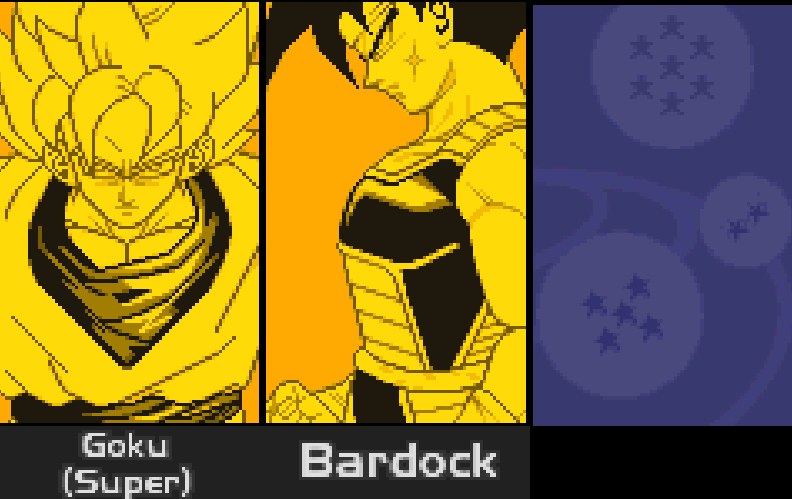
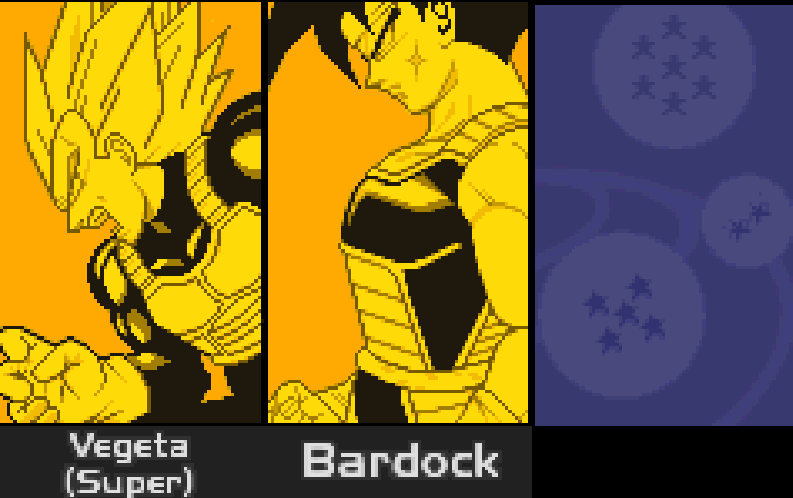
milieu des solutions : milieu de la page sur le combat z

Changed region(s): [[0.0, 0.0, 0.697, 1.0], [0.4848, 0.1807, 0.5152, 0.2108]]

diff --git a/soluce/solution_z.html b/soluce/solution_z.html
@@ -504,28 +504,34 @@
 
     <p>Pour la stratégie a adoptée, passons en revue les qualités des personnages et voyons ce que l'on peut faire avec :</p>
     <p>Metal Cooler sera ici la seule force de frappe majeure de l'équipe, du haut de ses 5 DP il possède des attaques et de compétences très intéressantes:
-      <br>Il a son Kamehameha qui couvre la longue portée et fait de très bons dégâts, son Kienzan est parfait, en plus d'aller plus loin et  plus vite, il fait bien plus mal que celui de Krilin 
-      et enfin son Makankuuhouidan emprunté à Piccolo est mieux que ce dernier, car il couvre la moyenne portée tout en faisant de meilleurs dégâts.
-      Pour sa compétence, c'est là que le personnage est redoutable car à 30% de ses Pv, si on appuie sur L, il déclenche une autodestruction qui fait environ les dégâts d'une Attaque Ultime, ce qui peut renverser le combat.
+      <br>Il a son Blaster de la mort qui couvre la moyenne portée et fait de bons dégâts tout en immobilisant l'ennemi, son Smash centrale est parfait pour frapper le centre et sur la longue distance,
+      tout en envoyant l'ennemi au loin et enfin son Nid de glace	est excellent,  il couvre la longue portée tout en faisant de meilleurs dégâts et fait réculer l'ennemi, 
+      si on maintiens le bouton plus longtemps. Pour sa compétence, c'est là que le personnage est redoutable car s'il meurt mais qu'il a 150% d'énergie alors il revient à la vie, 
+      ce qui peut renverser le combat.
     </p>
-    <p>Zarbon / Dodoria est un personnage support intéressant à 2 DP , il a certes des dégâts qui ne font pas réver, mais sa force réside dans le fait qu'en le sélectionnant à gauche, 
-      on obtient Zarbon qui déchaîne une vague de kikohas qui gène l'adversaire et en sélectionnant à droite, 
-      Dodoria attaque avec des boules d'énergies qui font plus mal.
+    <p>Cell Jr est un personnage support fort intéressant seulement 2 DP , il a certes des dégâts qui ne font pas réver, mais sa force réside dans le fait qu'il gênera l'adversaire,
+      en attaquant par derrière et l'empêchant de bouger.    
     </p>
-    <p>Zarbon / Dodoria est un personnage support intéressant à 2 DP , il a certes des dégâts qui ne font pas réver, mais sa force réside dans le fait qu'en le sélectionnant à gauche, 
-      on obtient Zarbon qui déchaîne une vague de kikohas qui gène l'adversaire et en sélectionnant à droite, 
-      Dodoria attaque avec des boules d'énergies qui font plus mal.
+    <p>Bardock est un personnage support excellent pour uniquement 2 DP , son but est de rechargé le Ki à 200 instantanément.
     </p>
     
       
-    <p>Pour ici, la stratégie sera concentrée autour de C-18 et Dr Gero, en début de partie, jouez passif-agressif avec C-18, attaquez avec spéciaux et vos coups au corps-à-corps,
-      mais surtout quand votre capacité peut être activée, activez là et passez en mode agressif enchaînez les spéciaux et abattez un maximum d'adversaire . Pour ce qui est de Gero, vous pouvez enchaîner avec ou bien jouer avec lui dés le début, il pourra jauger les dégâts,
-      mais faites attention sa capacité à encaisser n'est pas la plus perfomante donc restez à distance. Si vous voyez que l'adversaire est trop fort ou que c'est la fin du combat pour Gero ou l'adversaire, activez son Attaque Ultime et Gero retrouvera l'entièreté de sa vie,
-      autrement le garder sera utile pour faire une attaque en duo avec Cell.
-      Pour Cell, vous pouvez faire comme avec Gotenks ou d'autres personnages qui n'ont pas de soucis particulier: vous jouez normalement vous tapez et détruisez les autres,
-      à la différence que lorsque votre vie est à 30% ou moins activez d'abord votre Attaque Ultime, ce qui en plus de faire super mal à l'adversaire, 
-      vous régénère une bonne partie de votre vie. Après s'il reste encore un adversaire, attendez qu'il approche et acitvez la compétence et vous lui ferez aussi mal qu'avec une Attaque Ultime, ce qui peut le tuer en un seul coup.
+    <p>Pour ici, la stratégie sera concentrée autour Metal Cooler uniquement mais aussi de l'utilisation des supports voici une stratégie pour chaque version de l'équipe:</p>
+      <li>Version avec Cell Jr :</li>
+      <p>Tout au long du combat, le but sera de jouer agressif avec Metal Cooler en gardant la pression constante grâce à ses spéciaux.
+        Mais pour vaincre l'ennemi au plus vite, le but sera de faire appel à Cell Jr qui bloquera l'adversaire, puis d'être au dessus de l'ennemi et de lui balancer le Nid de glace, 
+        qui en plus d'éloigner l'adversaire de notre position, lui fera extrêmement mal et vise tous les côtés. Répétez ceci et gagnez le combat facilement.
+        Autrement vous pouvez simplement foncer sur l'adversaire, le frapper et le détruire avec vos spéciaux tout en utilisant Cell jr pour augmenter les dégâts.
     </p>
+      
+      <li>Version avec Bardock :</li>
+      <p>Pour la version avec Bardock, il faudra faire attention à ne pas trop abuser de son aide, car on a le droit qu'à 5 utilisations.
+        Le but ici sera de faire quasiment la même chose qu'avec Cell Jr, sauf qu'on va en abuser, jusqu'à enchaîner les attaques spéciales hautes, 
+        pour vaincre tout le monde. Sauf qu'ici Bardock aidera dans deux autres cas: l'Attaque Ultime et la Résurrection. Vu que Bardock donne le ki maximum,
+        on peut l'utiliser pour plusieurs choses dont l'Attaque Ultime qui requit 200 de ki, si Metal Cooler est au plus bas de ses PV, il pourra lancer une Attaque Ultime
+        qui anéantira l'ennemi. Autrement il pourra également se relever après un KO, grâce à sa capacité qui demande un KO et au minimum 150 de ki, ce qui fait que Metal Cooler grâce à Bardock
+        est innarêtable.
+     </p>
     <div class="images-cote-a-cote">
         <figure>
           <img src="../image/soluce/soluce_z/team6.png" alt="Equipe n°5" style="width: 650px;">
@@ -534,6 +540,37 @@
         <figure>
           <img src="../image/soluce/soluce_z/team6.5.png" alt="Equipe n°6" style="width: 650px;">
           <figcaption><strong>Equipe 6.5:Metal Cooler et Bardock</strong></figcaption>
+        </figure>
+    </div>
+
+    <br><p>L'équipe suivante est l'équipe n°7 qui se compose de: Mecha Freezer et Cooler</p>
+    <p>Les raisons pour cette équipe sont :</p>
+    <li>L'équipe est composé d'un personnage bien puissant et d'un personnage un peu plus complexe à utiliser.</li>
+    <li>Mecha Freezer coûte 3 DP qui est bien assez fort pour battre des personnages ayant un DP supérieur à lui. </li>
+    <li>Cooler coûte 4 DP et possède de bons dégâts et une compétence intéressante dans le cadre de cette équipe.</li>
+    <li>Egalement en plus que la combinaison des deux permet de respecter la règle des 7 DP maximum, ils peuvent faire une attaque en duo.</li>
+
+    <p>Pour la stratégie a adoptée, passons en revue les qualités des personnages et voyons ce que l'on peut faire avec :</p>
+    <p>Gotenks sera la force de frappe majeure de l'équipe, il a un arsenal parfait pour affronter les autres personnages:
+      <br>Il a des attaques spéciales qui peuvent faire plusieurs choses intéressantes et couvrent toutes les portées: Son Canon V couvre la longue portée et fait d'excellents dégâts
+      , son beignet galactique est une charge vers l'adversaire, ce qui brise la garde et fait des dégâts intéressants et enfin son Fantôme Kamikaze qui couvre la moyenne et courte distance, fait de très bons dégâts et le fantôme peut poursuivre l'adversaire.
+      Egalement il peut devenir Super Saiyan pour augmenter son attaque, ce qui permet de frapper bien plus fort ses ennemis.
+    </p>
+    <p>C-18 est selon moi le personnage le plus fort à 2 DP lorsque que l'on commence le jeu, elle a des attaques spéciales intéressantes et surtout une excellente capacité qui permet de garder son énergie à 100 durant une bonne durée du combat,
+      ce qui permet d'enchaîner les attaques spéciales sans faire trop attention à son énergie. Pour ses attaques spéciales, elle sera spécialisée dans le combat rapproché via son attaque spéciale standart, qui malgré sa faible portée frappe fort.
+      Elle sera aussi forte pour gênée l'adversaire avec ses deux attaques spéciales hautes et basses qui malgré leurs dégâts moyens, empêcheront l'adversaire de se rapprocher
+      , d'ailleurs ces attaques spéciales sont des excellents moyens pour gérer la longue portée quand l'adversaire est en dessous ou au dessus, ce qui permet de le garder loin.
+    </p>
+      
+    <p>Pour cette équipe, la stratégie sera bien plus tournée autour de Gotenks, en début de partie, essayez de jouer aggressif en utilisant la puissance de Gotenks jusqu'à que la plupart des ennemis tombent.
+      Si Gotenks ne tape pas suffisamment fort, transformez le en Super Saiyan, puis n'hésitez pas à user du Fantôme Kamikaze qui est vraiment redoutable.
+      Pour que C-18 soit utilisée efficacement, chargez avec Gotenks votre ki à 200, puis échanger avec C-18, mettez un coup envoyant l'ennemi plus loin. Après avoir activée votre compétence, 
+      vous pouvez enchaîner les spéciaux ou même les attaques énergétiques afin de briser la garde de l'ennemi et de simplement le vaincre sur la durée.
+    </p>
+    <div class="images-cote-a-cote">
+        <figure>
+          <img src="../image/soluce/soluce_z/team2.png" alt="Equipe n°2" style="width: 650px;">
+          <figcaption><strong>Equipe 2:Gotenks et C-18</strong></figcaption>
         </figure>
     </div>
 
